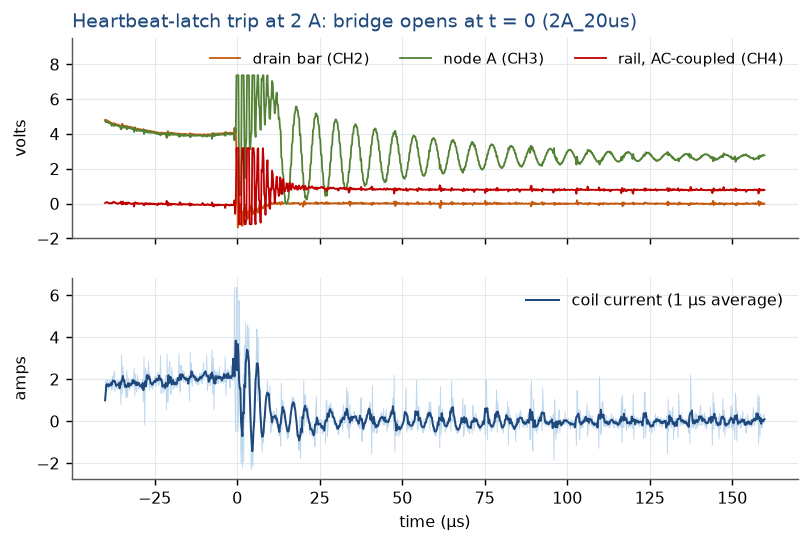
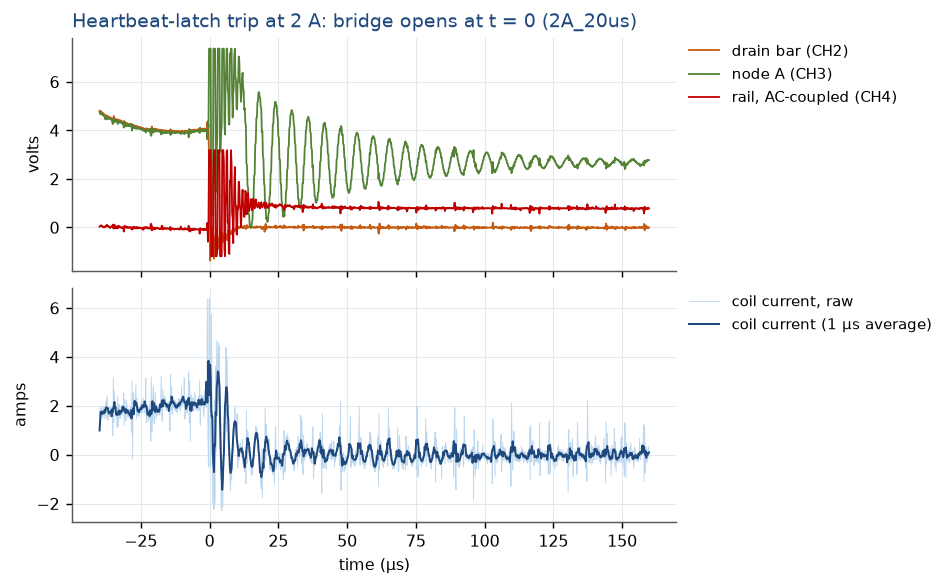
Benchtop log plots: no text on the data
All benchtop plots redrawn with constrained layout and legends outside
the axes (below the figure or beside each panel). Labels for reference
lines (trip level, supply limit, zero window, op-amp rail) moved into
the legend instead of sitting on the traces. Same data and processing.

snap_sim.png (sim/plot_snap_traces.py) follows once the bench traces
are regenerated.

diff --git a/sim/plot_snap_traces.py b/sim/plot_snap_traces.py
@@ -19,7 +19,8 @@ src = Path(sys.argv[1] if len(sys.argv) > 1 else "sim/traces")
 out = sys.argv[2] if len(sys.argv) > 2 else "snap_sim.png"
 T = 1.024                                       # us per PI tick
 plt.rcParams.update({"font.family": "DejaVu Sans", "font.size": 10})
-fig, axes = plt.subplots(2, 2, figsize=(11, 7), sharex="col")
+# constrained layout + one legend below the figure: no text on the traces
+fig, axes = plt.subplots(2, 2, figsize=(11, 7), sharex="col", layout="constrained")
 cols = {"off": "#C0504D", "on": "#1F497D"}
 for c, (name, title, xmax) in enumerate((
         ("bench", "Bench model: 2 A, one 45 µH test coil", 2000),
@@ -34,16 +35,16 @@ for c, (name, title, xmax) in enumerate((
     axes[0, c].axhline(0, color="k", lw=0.6)
     axes[0, c].axvline(0, color="k", lw=0.5, ls=":")
     axes[1, c].axvline(0, color="k", lw=0.5, ls=":")
-    axes[0, c].set_title(title, fontsize=11)
+    axes[0, c].set_title(title, fontsize=11, loc="left")
     axes[0, c].set_ylabel("coil current (A)")
     axes[1, c].set_ylabel("OUT1 command (counts)")
     axes[1, c].set_xlabel("time from setpoint → 0 (µs)")
     axes[1, c].set_xlim(-100, xmax)
-    axes[0, c].legend(fontsize=8)
     axes[0, c].grid(alpha=0.3)
     axes[1, c].grid(alpha=0.3)
+fig.legend(*axes[0, 0].get_legend_handles_labels(), loc="outside lower center", ncol=2,
+           fontsize=9, frameon=False)
 fig.suptitle("Zero-setpoint snap, HDL in the loop (cocotb + Icarus, plant model)",
              fontsize=12)
-fig.tight_layout()
 fig.savefig(out, dpi=110)
 print("wrote", out)
